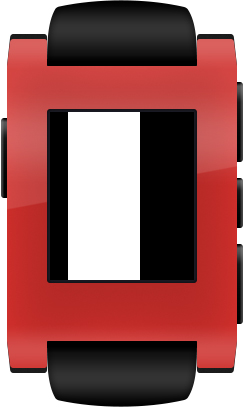
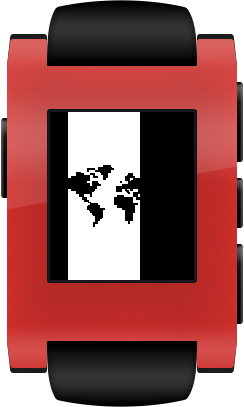
Updating README

Changed region(s): [[0.2582, 0.3833, 0.459, 0.5602], [0.459, 0.4128, 0.5738, 0.5602]]

diff --git a/README.md b/README.md
@@ -1,5 +1,9 @@
 # Daylight for Pebble
 
-A Pebble watch face that shows daylight as it passes over Earth. This code is open sourced under the Apache 2.0 license.
+A Pebble watch face that shows the daylight as it streaks across the globe.
+
+Colors can be inverted and land masses can be shown or hidden by accessing the settings in the Pebble application.
+
+This code is open sourced under the Apache 2.0 license.
 
 ![Daylight](https://raw.github.com/mcongrove/PebbleDaylight/master/watchface.jpg)
